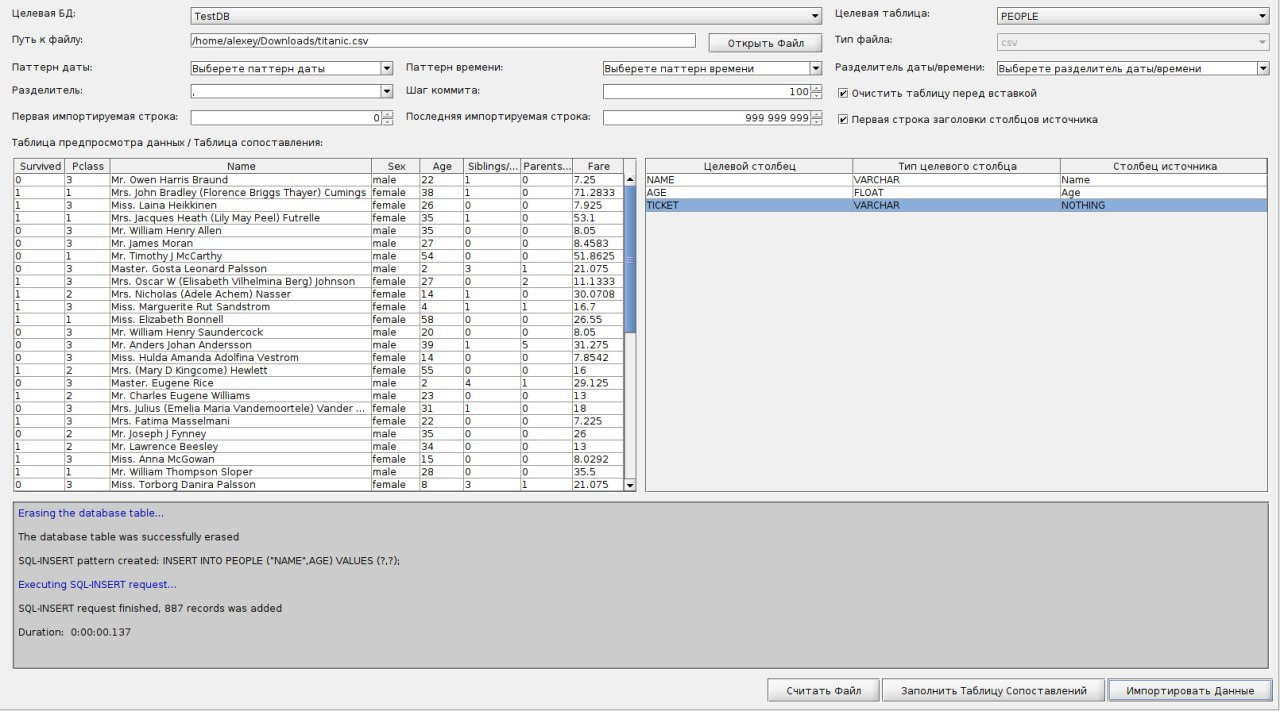
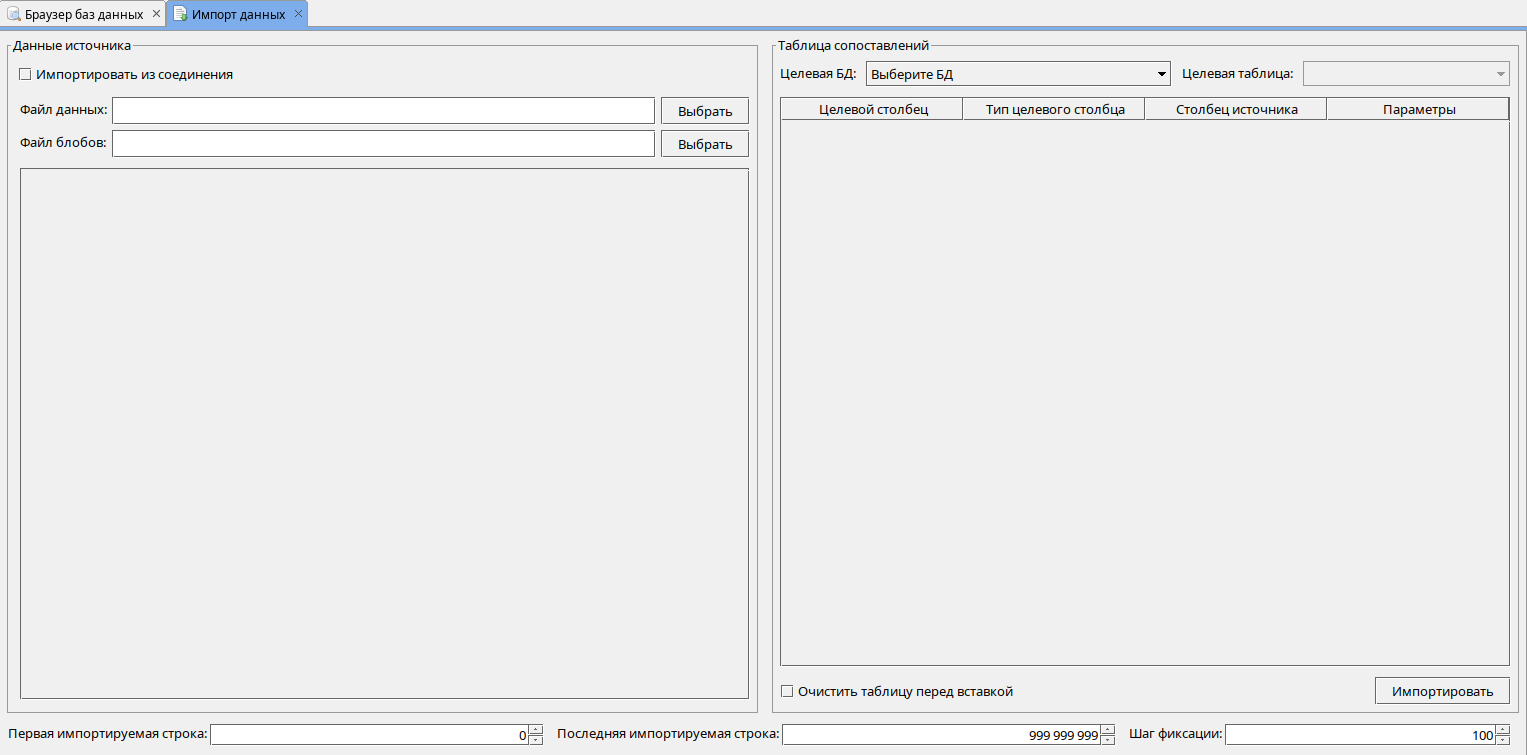
Correct description of data import module (RS-155261)

diff --git a/guide/RedExpert_Guide-ru.tex b/guide/RedExpert_Guide-ru.tex
@@ -219,7 +219,7 @@ Red Expert обладает рядом полезных компонентов: 
 
 \anonsubsubsection[Импорт данных из файла]{\hyperref[sec:import_data_from_file]{Импорт данных из файла}}
 
-Инструмент для импорта данных из файла в таблицу.
+Инструмент для импорта данных из файла в таблицу. Поддерживается импорт из XLSX, XML и CSV файлов.
 
 \begin{figure}[H]
 	\centering
@@ -627,7 +627,12 @@ Red Expert использует информацию, доступную из у
 \anonsubsection{Импорт данных из файла}\label{sec:import_data_from_file}
 
 \begin{enumerate}
-	\item Откройте вкладку "Import data from file" на центральной панели. Для этого выберите пунк меню \textit{База данных} $\rightarrow$ \textit{Импорт данных из файла}. Откроется вкладка:
+	\item Откройте вкладку "Импорт данных" на центральной панели. Для этого выберите пунк меню \textit{База данных} $\rightarrow$ \textit{Импорт данных}. 
+	\begin{figure}[H]
+		\centering
+		\includegraphics[width = 0.6\linewidth]{img/OpenImportData.png}
+	\end{figure}
+	Откроется вкладка:
 	\begin{figure}[H]
 		\centering
 		\includegraphics[width = 0.95\linewidth]{img/ImportData.png}
@@ -635,30 +640,28 @@ Red Expert использует информацию, доступную из у
 	\item Заполните соответствующие поля, как показано ниже:
 	\begin{longtable}[r]{|>{\bfseries}m{3.9cm}|m{11cm}|}
 		\hline
+		Импортировать из соединения & Позволяет выбрать базу данных в качестве источника.\\\hline
+		Файл данных & Путь к файлу-источнику данных. Поддерживается импорт из XLSX, XML и CSV файлов.\\\hline
+		Файл блобов & Путь к файлу-источнику с блобами (с расширением \ttt{.lob}).\\\hline
+		Целевая БД & База данных, в которую будет производиться импорт.\\\hline
 		Целевая таблица & Таблица, в которую будет производиться импорт.\\\hline
-		Тип файла & Расширение импортируемого файла. На данный момент доступен только CSV.\\\hline
-		Путь к файлу & Путь к файлу-источнику данных.\\\hline
-	\end{longtable}
-	\item Нажмите на кнопку "Cчитать Файл", чтобы прочитать импортированный файл в табличном представлении в соответсвующую таблицу.
-	\item Заполните соответствующие поля, как показано ниже:
-	\begin{longtable}[r]{|>{\bfseries}m{3.9cm}|m{11cm}|}
-		\hline
 		Разделитель & Тип разделителя данных в CSV файлах.\\\hline
+		Номер страницы & Для \ttt{XLSX} файлов можно выбрасть страницу excel-файла, из которой нужно импортировать данные.\\\hline
 		Первая строка заголовки столбцов источника & Следует ли сделать значения в первой строке выбранного файла заголовками столбцов в табличном представлении. В таком случае при импорте первая строка не будет учитываться.\\\hline
-		Паттерн даты & Формат даты. Более подробно о них рассказано \hyperlink{tab:datapattern}{здесь}.\\\hline
-		Паттерн времени & Формат времени. Более подробно о них рассказано \hyperlink{tab:datapattern}{здесь}.\\\hline
-		Разделитель даты/времени & Тип разделителя между датой и временем.\\\hline
 		Первая импортируемая строка & Строка, начиная с которой будут импортированы данные.\\\hline
 		Последняя импортируемая строка & Строка, поcле которой импорт данных будет прекращён. Строки, непопадающие в диапазон между первой и последней импортируемой строкой, будут проигнорированы.\\\hline
-		Шаг коммита & Количество записей, после которого будет произведено подтверждение транзакии и сохранение данных в таблице.\\\hline
+		Шаг фиксации & Количество записей, после которого будет произведено подтверждение транзакии и сохранение данных в таблице.\\\hline
 		Очистить таблицу перед вставкой & Следует ли очистить целевую таблицу от данных, которые в ней были до импорта.\\\hline
+		Столбец источника & Имя столбца, из которого нужно импортировать данные..\\\hline
+		Параметры & Импортировать \ttt{BLOB} как файл или как текст.\\\hline
 	\end{longtable}
+	Пример заполнения полей:
+	\begin{figure}[H]
+		\centering
+		\includegraphics[width = 1\linewidth]{img/ExampleImportData.png}
+	\end{figure}
 	\item Нажмите на кнопку "Импортировать Данные".
 \end{enumerate}
-
-Если таблица сопоставлений не заполнилась автоматически после выбора разделителя, то для заполнения нужно нажать на кнопку "Заполнить Таблицу Сопоставлений".	
-
-Если файл-исходник уже считан в таблицу предпросмотра, то при изменении полей \ttt{Разделитель} или \ttt{Первая строка заголовки столбцов источника} изменения будут применяться автоматически.
 
 В процессе импортирования будет выведено диалоговое окно. Нажатие на кнопку "Отмена" остановит процесс импорта данных. Все изменения, произошедшие до остановки импортирования, сохранятся в таблице.
 
